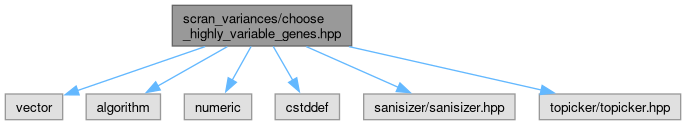
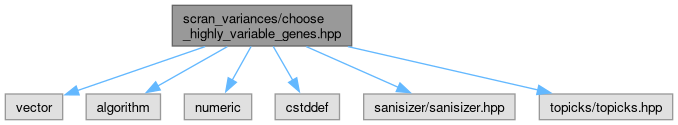
Deploying to gh-pages from @ libscran/scran_variances@0a4a4695c2b006b6b18b257a96c810ea1a26e2e6 🚀

diff --git a/docs/choose__highly__variable__genes_8hpp_source.html b/docs/choose__highly__variable__genes_8hpp_source.html
@@ -109,7 +109,7 @@ $(function(){ initResizable(false); });
 <div class="line"><a id="l00007" name="l00007"></a><span class="lineno">    7</span><span class="preprocessor">#include &lt;cstddef&gt;</span></div>
 <div class="line"><a id="l00008" name="l00008"></a><span class="lineno">    8</span> </div>
 <div class="line"><a id="l00009" name="l00009"></a><span class="lineno">    9</span><span class="preprocessor">#include &quot;sanisizer/sanisizer.hpp&quot;</span></div>
-<div class="line"><a id="l00010" name="l00010"></a><span class="lineno">   10</span><span class="preprocessor">#include &quot;topicker/topicker.hpp&quot;</span></div>
+<div class="line"><a id="l00010" name="l00010"></a><span class="lineno">   10</span><span class="preprocessor">#include &quot;topicks/topicks.hpp&quot;</span></div>
 <div class="line"><a id="l00011" name="l00011"></a><span class="lineno">   11</span> </div>
 <div class="foldopen" id="foldopen00017" data-start="{" data-end="}">
 <div class="line"><a id="l00017" name="l00017"></a><span class="lineno"><a class="line" href="namespacescran__variances.html">   17</a></span><span class="keyword">namespace </span><a class="code hl_namespace" href="namespacescran__variances.html">scran_variances</a> {</div>
@@ -131,8 +131,8 @@ $(function(){ initResizable(false); });
 <div class="line"><a id="l00063" name="l00063"></a><span class="lineno">   63</span><span class="keyword">namespace </span>internal {</div>
 <div class="line"><a id="l00064" name="l00064"></a><span class="lineno">   64</span> </div>
 <div class="line"><a id="l00065" name="l00065"></a><span class="lineno">   65</span><span class="keyword">template</span>&lt;<span class="keyword">typename</span> Stat_&gt;</div>
-<div class="line"><a id="l00066" name="l00066"></a><span class="lineno">   66</span>topicker::PickTopGenesOptions&lt;Stat_&gt; translate_options(<span class="keyword">const</span> <a class="code hl_struct" href="structscran__variances_1_1ChooseHighlyVariableGenesOptions.html">ChooseHighlyVariableGenesOptions</a>&amp; chvg_options) {</div>
-<div class="line"><a id="l00067" name="l00067"></a><span class="lineno">   67</span>    topicker::PickTopGenesOptions&lt;Stat_&gt; opt;</div>
+<div class="line"><a id="l00066" name="l00066"></a><span class="lineno">   66</span>topicks::PickTopGenesOptions&lt;Stat_&gt; translate_options(<span class="keyword">const</span> <a class="code hl_struct" href="structscran__variances_1_1ChooseHighlyVariableGenesOptions.html">ChooseHighlyVariableGenesOptions</a>&amp; chvg_options) {</div>
+<div class="line"><a id="l00067" name="l00067"></a><span class="lineno">   67</span>    topicks::PickTopGenesOptions&lt;Stat_&gt; opt;</div>
 <div class="line"><a id="l00068" name="l00068"></a><span class="lineno">   68</span>    opt.<a class="code hl_variable" href="structscran__variances_1_1ChooseHighlyVariableGenesOptions.html#a452e64f05baa4e9fe2fc35e97510bece">keep_ties</a> = chvg_options.<a class="code hl_variable" href="structscran__variances_1_1ChooseHighlyVariableGenesOptions.html#a452e64f05baa4e9fe2fc35e97510bece">keep_ties</a>;</div>
 <div class="line"><a id="l00069" name="l00069"></a><span class="lineno">   69</span>    <span class="keywordflow">if</span> (chvg_options.<a class="code hl_variable" href="structscran__variances_1_1ChooseHighlyVariableGenesOptions.html#a2990bc14c7a1912b0a2bf9d0670be7fb">use_bound</a>) {</div>
 <div class="line"><a id="l00070" name="l00070"></a><span class="lineno">   70</span>        opt.bound = chvg_options.<a class="code hl_variable" href="structscran__variances_1_1ChooseHighlyVariableGenesOptions.html#a2d75802080acf97aae3f96e4e3e1f2b7">bound</a>;</div>
@@ -144,7 +144,7 @@ $(function(){ initResizable(false); });
 <div class="line"><a id="l00090" name="l00090"></a><span class="lineno">   90</span><span class="keyword">template</span>&lt;<span class="keyword">typename</span> Stat_, <span class="keyword">typename</span> Bool_&gt;</div>
 <div class="foldopen" id="foldopen00091" data-start="{" data-end="}">
 <div class="line"><a id="l00091" name="l00091"></a><span class="lineno"><a class="line" href="namespacescran__variances.html#a0eaed0c6084b20e9e155b8fda6a6a83a">   91</a></span><span class="keywordtype">void</span> <a class="code hl_function" href="namespacescran__variances.html#a0eaed0c6084b20e9e155b8fda6a6a83a">choose_highly_variable_genes</a>(std::size_t n, <span class="keyword">const</span> Stat_* statistic, Bool_* output, <span class="keyword">const</span> <a class="code hl_struct" href="structscran__variances_1_1ChooseHighlyVariableGenesOptions.html">ChooseHighlyVariableGenesOptions</a>&amp; options) {</div>
-<div class="line"><a id="l00092" name="l00092"></a><span class="lineno">   92</span>    topicker::pick_top_genes(n, statistic, options.<a class="code hl_variable" href="structscran__variances_1_1ChooseHighlyVariableGenesOptions.html#a207b3e1474c88a93e9c9511e3757c43a">top</a>, options.<a class="code hl_variable" href="structscran__variances_1_1ChooseHighlyVariableGenesOptions.html#a7ac6ad16838227b7ea5f2266b09c8d37">larger</a>, output, internal::translate_options&lt;Stat_&gt;(options));</div>
+<div class="line"><a id="l00092" name="l00092"></a><span class="lineno">   92</span>    topicks::pick_top_genes(n, statistic, options.<a class="code hl_variable" href="structscran__variances_1_1ChooseHighlyVariableGenesOptions.html#a207b3e1474c88a93e9c9511e3757c43a">top</a>, options.<a class="code hl_variable" href="structscran__variances_1_1ChooseHighlyVariableGenesOptions.html#a7ac6ad16838227b7ea5f2266b09c8d37">larger</a>, output, internal::translate_options&lt;Stat_&gt;(options));</div>
 <div class="line"><a id="l00093" name="l00093"></a><span class="lineno">   93</span>}</div>
 </div>
 <div class="line"><a id="l00094" name="l00094"></a><span class="lineno">   94</span> </div>
@@ -164,7 +164,7 @@ $(function(){ initResizable(false); });
 <div class="line"><a id="l00127" name="l00127"></a><span class="lineno">  127</span><span class="keyword">template</span>&lt;<span class="keyword">typename</span> Index_, <span class="keyword">typename</span> Stat_&gt;</div>
 <div class="foldopen" id="foldopen00128" data-start="{" data-end="}">
 <div class="line"><a id="l00128" name="l00128"></a><span class="lineno"><a class="line" href="namespacescran__variances.html#a30a2a9b882ad09999bdf8d698e4a56ab">  128</a></span>std::vector&lt;Index_&gt; <a class="code hl_function" href="namespacescran__variances.html#a30a2a9b882ad09999bdf8d698e4a56ab">choose_highly_variable_genes_index</a>(Index_ n, <span class="keyword">const</span> Stat_* statistic, <span class="keyword">const</span> <a class="code hl_struct" href="structscran__variances_1_1ChooseHighlyVariableGenesOptions.html">ChooseHighlyVariableGenesOptions</a>&amp; options) {</div>
-<div class="line"><a id="l00129" name="l00129"></a><span class="lineno">  129</span>    <span class="keywordflow">return</span> topicker::pick_top_genes_index&lt;Index_&gt;(n, statistic, options.<a class="code hl_variable" href="structscran__variances_1_1ChooseHighlyVariableGenesOptions.html#a207b3e1474c88a93e9c9511e3757c43a">top</a>, options.<a class="code hl_variable" href="structscran__variances_1_1ChooseHighlyVariableGenesOptions.html#a7ac6ad16838227b7ea5f2266b09c8d37">larger</a>, internal::translate_options&lt;Stat_&gt;(options));</div>
+<div class="line"><a id="l00129" name="l00129"></a><span class="lineno">  129</span>    <span class="keywordflow">return</span> topicks::pick_top_genes_index&lt;Index_&gt;(n, statistic, options.<a class="code hl_variable" href="structscran__variances_1_1ChooseHighlyVariableGenesOptions.html#a207b3e1474c88a93e9c9511e3757c43a">top</a>, options.<a class="code hl_variable" href="structscran__variances_1_1ChooseHighlyVariableGenesOptions.html#a7ac6ad16838227b7ea5f2266b09c8d37">larger</a>, internal::translate_options&lt;Stat_&gt;(options));</div>
 <div class="line"><a id="l00130" name="l00130"></a><span class="lineno">  130</span>}</div>
 </div>
 <div class="line"><a id="l00131" name="l00131"></a><span class="lineno">  131</span> </div>

diff --git a/docs/choose__highly__variable__genes_8hpp.html b/docs/choose__highly__variable__genes_8hpp.html
@@ -112,7 +112,7 @@ $(function(){ initResizable(false); });
 <code>#include &lt;numeric&gt;</code><br />
 <code>#include &lt;cstddef&gt;</code><br />
 <code>#include &quot;sanisizer/sanisizer.hpp&quot;</code><br />
-<code>#include &quot;topicker/topicker.hpp&quot;</code><br />
+<code>#include &quot;topicks/topicks.hpp&quot;</code><br />
 </div><div class="textblock"><div class="dynheader">
 Include dependency graph for choose_highly_variable_genes.hpp:</div>
 <div class="dyncontent">
@@ -129,8 +129,8 @@ Include dependency graph for choose_highly_variable_genes.hpp:</div>
 <area shape="poly" title=" " alt="" coords="276,45,295,79,290,82,271,48"/>
 <area shape="rect" title=" " alt="" coords="364,94,515,120"/>
 <area shape="poly" title=" " alt="" coords="307,44,399,85,397,90,305,49"/>
-<area shape="rect" title=" " alt="" coords="539,94,681,120"/>
-<area shape="poly" title=" " alt="" coords="350,44,542,87,541,93,348,49"/>
+<area shape="rect" title=" " alt="" coords="539,94,673,120"/>
+<area shape="poly" title=" " alt="" coords="349,44,539,87,537,93,347,49"/>
 </map>
 </div>
 </div><div class="textblock"><div class="dynheader">

diff --git a/docs/scran__variances_8hpp.html b/docs/scran__variances_8hpp.html
@@ -151,8 +151,8 @@ Include dependency graph for scran_variances.hpp:</div>
 <area shape="poly" title=" " alt="" coords="199,204,212,206,394,226,537,234,681,239,866,253,866,259,681,245,537,239,393,231,211,211,198,209"/>
 <area shape="rect" title=" " alt="" coords="87,256,154,282"/>
 <area shape="poly" title=" " alt="" coords="123,209,123,241,118,241,118,209"/>
-<area shape="rect" title=" " alt="" coords="178,256,319,282"/>
-<area shape="poly" title=" " alt="" coords="154,206,218,246,215,250,151,211"/>
+<area shape="rect" title=" " alt="" coords="178,256,311,282"/>
+<area shape="poly" title=" " alt="" coords="153,206,214,245,211,250,150,211"/>
 </map>
 </div>
 </div>
